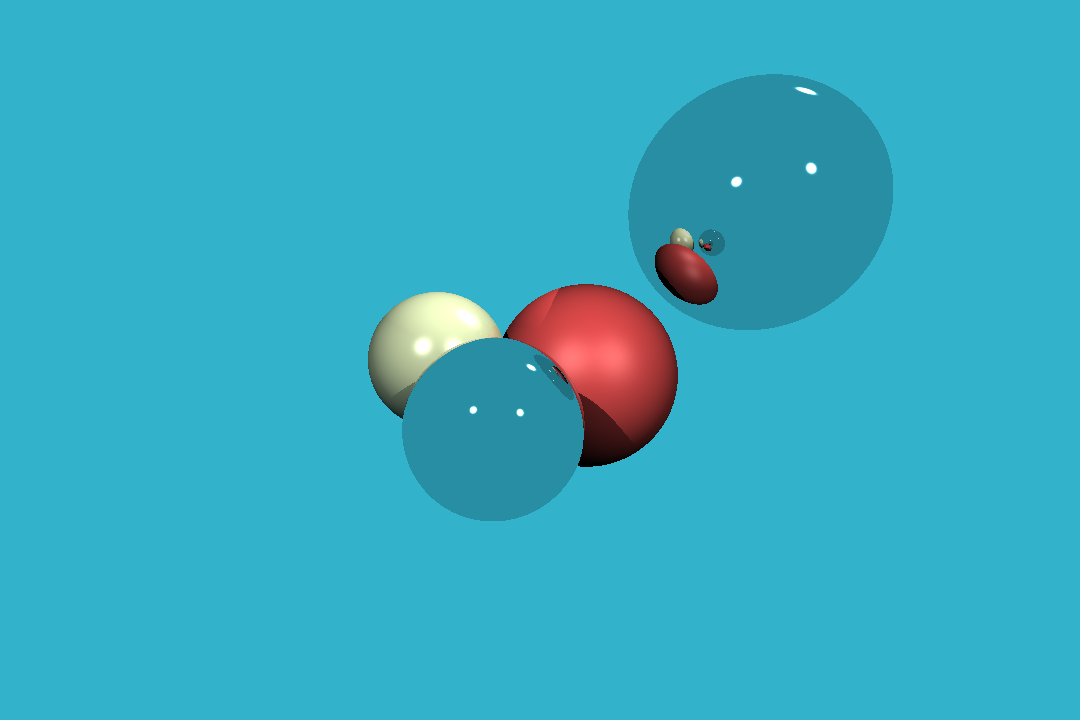
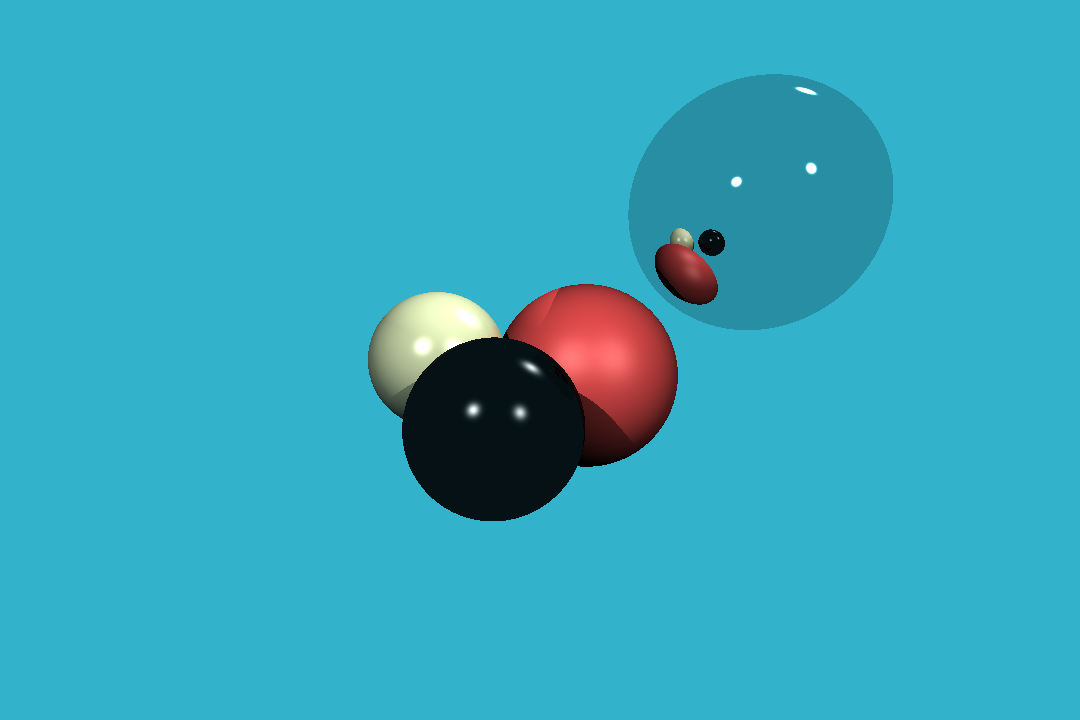
计算折射

Changed region(s): [[0.3667, 0.4583, 0.55, 0.7333], [0.6417, 0.3056, 0.6722, 0.3667]]

diff --git a/raytracer.cpp b/raytracer.cpp
@@ -21,6 +21,23 @@ Vec3f reflect(const Vec3f& in,const Vec3f& n)
 	return n*-(in*n)*2+in;
 }
 
+Vec3f refract(const Vec3f& in,const Vec3f& N,float refract)
+{
+	float cosi=-in*N;
+	float ni=1;
+	float nj=refract;
+	Vec3f n=N;
+	if(cosi<0)
+	{
+		cosi=-cosi;
+		swap(ni,nj);
+		n=-N;
+	}
+	float eta=ni/nj;
+	float cosj=sqrt(1-eta*eta*(1-cosi*cosi));
+	return cosj<0?Vec3f(0,0,0):in*eta+n*(eta*cosj-cosi);
+}
+
 void tonemapping(Vec3f& c)
 {
         c.x=c.x>255?255:(c.x<0?0:c.x);
@@ -70,8 +87,11 @@ Vec3f trace(const Vec3f& orig,const Vec3f& dir,const vector<Sphere>& spheres,
 		float diffIntensity=0;
 		float specIntensity=0;
 		Vec3f reflectRay=reflect(dir,n).normalize();
+		Vec3f refractRay=refract(dir,n,mat.refract).normalize();
 		Vec3f reflectPoint=reflectRay*n>0?hit+n*1e-3:hit-n*1e-3;
+		Vec3f refractPoint=refractRay*n>0?hit+n*1e-3:hit-n*1e-3;
 		Vec3f reflectColor=trace(reflectPoint,reflectRay,spheres,pointLights,depth-1);
+		Vec3f refractColor=trace(refractPoint,refractRay,spheres,pointLights,depth-1);
 		for(auto& pointLight:pointLights)
 		{
 			Vec3f l=(pointLight.center-hit).normalize();
@@ -131,11 +151,12 @@ int main()
 	vector<Sphere> spheres;
 	vector<PointLight> pointLights;
 
-	Material ivory(Vec3f(0.4, 0.4, 0.3),Vec3f(0.6,0.3,0.1),50);
-	Material red_rubber(Vec3f(0.3, 0.1, 0.1),Vec3f(0.9,0.1,0.0),10);
-	Material mirror(Vec3f(1.0,1.0,1.0),Vec3f(0.,10.0,0.8),1425);
+	Material ivory(Vec3f(0.4, 0.4, 0.3),Vec4f(0.6,0.3,0.1,0.0),50,1.0);
+	Material glass(Vec3f(0.6,0.7,0.8),Vec4f(0.0,0.5,0.1,0.8),125.,1.5);
+	Material red_rubber(Vec3f(0.3, 0.1, 0.1),Vec4f(0.9,0.1,0.0,0.0),10,1.0);
+	Material mirror(Vec3f(1.0,1.0,1.0),Vec4f(0.,10.0,0.8,0.0),1425,1.0);
 	spheres.emplace_back(Sphere(Vec3f(-3,0,-16),2,ivory));
-	spheres.emplace_back(Sphere(Vec3f(-1,-1.5,-12),2,mirror));
+	spheres.emplace_back(Sphere(Vec3f(-1,-1.5,-12),2,glass));
 	spheres.emplace_back(Sphere(Vec3f(1.5,-0.5,-18),3,red_rubber));
 	spheres.emplace_back(Sphere(Vec3f(7,5,-18),4,mirror));
 	pointLights.emplace_back(PointLight(Vec3f(-10,10,10),2));

diff --git a/Material.h b/Material.h
@@ -3,16 +3,17 @@
 struct Material
 {
 	Vec3f color;
-	Vec3f albedo;
+	Vec4f albedo;
 	float specular;
+	float refract;
 
-	Material(const Vec3f& c,const Vec3f& a,const float& s):albedo(a),specular(s)
+	Material(const Vec3f& c,const Vec4f& a,const float& s,const float& r):albedo(a),specular(s),refract(r)
 	{
 		color=c*255;
 	}
 
 	Material(const Vec3f& c)
 	{
-		new(this) Material(c,Vec3f(0.,0.,0.),0.);
+		new(this) Material(c,Vec4f(0.,0.,0.,0.),0.,1.);
 	}
 };
